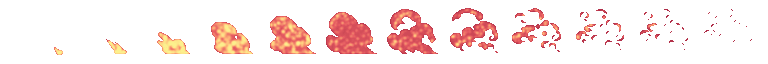
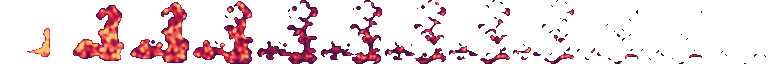
Tweaked the new spells (visuals, damage).

diff --git a/data/tables/spell_table.py b/data/tables/spell_table.py
@@ -17,8 +17,7 @@ BLOOD_RED = (89, 10, 10)
 FIREBOLT = Damage(1.5, fire=2, flags=[Flags.SPELL])
 FIREBALL = Damage(2, fire=7, flags=[Flags.SPELL])
 FIREBALL_EXPLOSION = Damage(2, fire=15, flags=[Flags.SPELL])
-FIRE_MASTERY = Affliction("fire_mastery", 0.1, 15, flags=[Flags.BOON, Flags.FIRE_DMG], stackable=True)
-CONE_OF_FLAMES = Damage(1.2, fire=5, flags=[Flags.SPELL])
+CONE_OF_FLAMES = Damage(0.8, fire=3, flags=[Flags.SPELL])
 
 KAMIKAZE = Damage(3, fire=30, flags=[Flags.MELEE])
 
@@ -65,9 +64,8 @@ FURY_COST = Affliction("fury3", 0.025, 1, flags=[Flags.MANA_COST, Flags.COOLDOWN
 BLOODPACT = Affliction("bloodpact1", 0.75, -1, [Flags.BLESS, Flags.ALL_DAMAGE])
 BLOODPACT_RES = Affliction("bloodpact2", 20, -1, [Flags.LIFE_REGEN, Flags.FLAT])
 
-LIGHTNING_BOLT = Damage(5, 2, elec=1, flags=[Flags.SPELL])
+LIGHTNING_BOLT = Damage(2.8, elec=11, flags=[Flags.SPELL])
 SHOCK = Damage(5, 2, elec=1, flags=[Flags.SPELL])
-CONDUCTION = Affliction("conduction", 0, 5, flags=[Flags.BLESS, Flags.LIGHTNING_DMG], stackable=False)
 
 def generate_spell_list():
     """Generates the spells and add them to stuff"""
@@ -86,8 +84,10 @@ def generate_spell_list():
     magicmissile_icon = Image("icons/spells/magicmissile.png").scale(64, 64)
     rip_icon = Image("icons/spells/rip.png").scale(64, 64)
     pact_icon = Image("icons/spells/bloodpact.png").scale(64, 64)
-    meteor_icon = Image("icons/spells/FireMage_4.png").scale(64, 64)
-    inferno_icon = Image("icons/spells/FireMage_5.png").scale(64, 64)
+    #meteor_icon = Image("icons/spells/FireMage_4.png").scale(64, 64)
+    inferno_icon = Image("icons/spells/firecone.png").scale(64, 64)
+    elecbolt_icon = Image("icons/spells/lightning_bolt.png").scale(64, 64)
+    shock_icon = Image("icons/spells/shock.png").scale(64, 64)
 
     SYSTEM["images"]["firebolt_proj_img"] =\
         Animation("fireball.png", 32, 19, frame_rate=0.25).scale(38, 64)
@@ -140,8 +140,12 @@ def generate_spell_list():
     SYSTEM["images"]["lightboltanim"] = Animation("anims/lightbolt.png", 64, 64, frame_rate=0.25)\
         .rotate(90).scale(64, 128)
     SYSTEM["images"]["skitterbolt"] = Animation("anims/skitter.png", 64, 64, frame_rate=0.25)
+    SYSTEM["images"]["firecone"] = Animation("anims/firecone.png", 64, 64, frame_rate=0.2)\
+        .scale(96, 96)
 
     light_strike = Animation("anims/lightningfall.png", 64, 64, frame_rate=0.25,\
+        plays_once=True, loops=False).scale(128, 128)
+    bolt_strike = Animation("anims/elecboltimpact.png", 64, 64, frame_rate=0.5,\
         plays_once=True, loops=False).scale(128, 128)
     missile_impact = Animation("anims/magicmissile_explosion.png", 64, 72, frame_rate=0.25,\
         plays_once=True, loops=False)
@@ -149,7 +153,7 @@ def generate_spell_list():
     fireball_explosion =\
         Slash(DummyEntity(0,0, None), None, "fireball_expl_img",\
               FIREBALL_EXPLOSION, effective_frames=3)
-    
+
     master_1 = Spell("", m1_icon, "master1_img", MASTER_1, 5, 0,\
         cooldown=0.5, flags=[Flags.MELEE], offset_x=60, effective_frames=8)
     master_2 = Spell("", m2_icon, "master2_img", MASTER_2, 0, 0,\
@@ -218,27 +222,21 @@ def generate_spell_list():
         cooldown=1, flags=[Flags.AURA, Flags.TOGGLEABLE, Flags.LIFE_RESERVATION, Flags.BUFF],
         buffs=[BLOODPACT, BLOODPACT_RES])
 
-    lightning_bolt = Spell("lightning_bolt", arc_icon, "lightboltanim", LIGHTNING_BOLT, 18,\
+    lightning_bolt = Spell("lightning_bolt", elecbolt_icon, "lightboltanim", LIGHTNING_BOLT, 15,\
         cooldown=3, projectiles=1, flags=[Flags.LIGHTNING, Flags.BARRAGE,\
         Flags.PROJECTILE, Flags.PIERCING], \
-        anim_on_hit=light_strike, trail=PARTICLE_CONFIGS["arc_line"], proj_speed=60)
+        anim_on_hit=bolt_strike, proj_speed=60, trail=PARTICLE_CONFIGS["arc_trail"])
 
-    shock = Spell("shock", arc_icon, "skitterbolt", SHOCK, 3,\
+    shock = Spell("shock", shock_icon, "skitterbolt", SHOCK, 3,\
         cooldown=0.35, projectiles=5, spread=180, flags=[Flags.LIGHTNING, Flags.SPREAD,\
         Flags.PROJECTILE, Flags.SKITTER, Flags.AIMED_AT_MOUSE], \
-        anim_on_hit=light_strike, trail=PARTICLE_CONFIGS["arc_line"], delay=0.05, proj_speed=10)
-    
-    chain_lightning = Spell("chain_lightning", arc_icon, "lightboltanim", LIGHTNING_BOLT, 18,\
-        cooldown=3, projectiles=1, chains=5, flags=[Flags.LIGHTNING, Flags.BARRAGE,\
-        Flags.PROJECTILE, Flags.REPLICATE], \
-        anim_on_hit=light_strike, trail=PARTICLE_CONFIGS["arc_line"], proj_speed=60)
-    
-    cone_of_flames = Spell("cone_of_flames", inferno_icon, "firebolt_proj_img", CONE_OF_FLAMES, 10,\
-        cooldown=5, projectiles=10, flags=[Flags.FIRE, Flags.EXPIRE, Flags.SPELL, Flags.PROJECTILE,
-                                           Flags.SPREAD, Flags.PIERCING],
-         delay=0.5, proj_speed=10, spread=90)
+        trail=PARTICLE_CONFIGS["arc_line"], delay=0.3, proj_speed=10)
 
-    
+    cone_of_flames = Spell("cone_of_flames", inferno_icon, "firecone", CONE_OF_FLAMES, 10,\
+        cooldown=5, projectiles=10, flags=[Flags.FIRE, Flags.EXPIRE, Flags.SPELL, Flags.PROJECTILE,
+                                           Flags.SPREAD, Flags.PIERCING, Flags.DAMAGE_DECAYS],
+         delay=0.9, proj_speed=5, spread=90, trail=PARTICLE_CONFIGS["firecone_trail"],
+         impact=PARTICLE_CONFIGS["firecone_impact"])
 
     SYSTEM["spells"]["firebolt"] = firebolt
     SYSTEM["spells"]["icebolt"] = icebolt
@@ -255,9 +253,7 @@ def generate_spell_list():
     SYSTEM["spells"]["bloodpact"] = bloodpact
     SYSTEM["spells"]["lightning_bolt"] = lightning_bolt
     SYSTEM["spells"]["shock"] = shock
-    SYSTEM["spells"]["chain_lightning"] = chain_lightning
     SYSTEM["spells"]["cone_of_flames"] = cone_of_flames
-
     #Enemy spells
     SYSTEM["spells"]["e_charge"] = charge
     SYSTEM["spells"]["e_voidbolt"] = voidbolt_enemy

diff --git a/data/game/projectile.py b/data/game/projectile.py
@@ -30,7 +30,7 @@ class Projectile(HitBox):
                 '_initial_delay', '_explosion', '_behaviours', '_debuffs', '_flagged', \
                 '_wandering', '_immune', '_bounced', '_chains', '_warning', '_anim_speed', \
                 '_debuff_chance', '_animation_controller', '_particle_trail', '_particle_impact', \
-                '_particle_timer', '_particle_interval', '_initial_angle'
+                '_particle_timer', '_particle_interval', '_initial_angle', '_decay'
     def __init__(self, x, y, angle, imagefile: str, damage: Damage, origin:Creature,\
                 evil = False, speed = 20, caster = None,\
                 bounces = 0, delay = 0, chains = 0,\
@@ -113,6 +113,7 @@ class Projectile(HitBox):
         self._warning = None
         self._anim_speed = anim_speed
         self._debuff_chance = debuff_chance
+        self._decay = 1
 
     def get_image(self):
         """Returns the projectile image."""
@@ -155,7 +156,11 @@ class Projectile(HitBox):
                 )
             if Flags.CHAINS in self.behaviours:
                 self._immune.clear()
-            dmg = self._origin.recalculate_damage(self._damage)
+            if Flags.DAMAGE_DECAYS in self._behaviours or Flags.DAMAGE_GROWS in self._behaviours:
+                dmg = self._origin.recalculate_damage(self._damage,
+                                                      additional_multiplier=self._decay)
+            else:
+                dmg = self._origin.recalculate_damage(self._damage)
             num, crit = target.damage(dmg)
             self._immune.append(target)
             if Flags.REPLICATE in self._behaviours:
@@ -342,6 +347,10 @@ class Projectile(HitBox):
             self._flagged = True
         if self._delay <= 0 and Flags.EXPIRE in self._behaviours:
             self._flagged = True
+        if Flags.DAMAGE_DECAYS in self._behaviours:
+            self._decay *= 0.98
+        elif Flags.DAMAGE_GROWS in self._behaviours:
+            self._decay *= 1.002
         self._delay -= 0.016
 
     def flag(self):

diff --git a/data/tables/particle_table.py b/data/tables/particle_table.py
@@ -11,6 +11,16 @@ PARTICLE_CONFIGS = {
         'fade': True,
         'gravity': 0
     },
+    'firecone_trail': {
+        'count': 4,
+        'vel_range': (-2, 2),
+        'color': [(255, 100, 0), (255, 150, 0), (255, 200, 50)],
+        'size_range': (1, 4),
+        'life_range': (0.2, 0.8),
+        'spread_angle': 360,
+        'fade': True,
+        'gravity': 0
+    },
     'voidbolt_trail': {
         'count': 12,
         'vel_range': (-1.5, 1.5),
@@ -31,11 +41,31 @@ PARTICLE_CONFIGS = {
         'fade': True,
         'gravity': 0.3
     },
+    'firecone_impact': {
+        'count': 20,
+        'vel_range': (3, 10),
+        'color': [(255, 100, 0), (255, 150, 0), (255, 200, 50)],
+        'size_range': (2, 7),
+        'life_range': (0.3, 0.8),
+        'spread_angle': 360,
+        'fade': True,
+        'gravity': 0.3
+    },
     'arc_line': {
         'count': 30,
         'color': [(100, 200, 255), (150, 220, 255), (200, 230, 255)],
         'size_range': (2, 5),
         'life_range': (0.1, 0.2),
         'fade': True
-    }
+    },
+    'arc_trail': {
+        'count': 15,
+        'vel_range': (-2, 2),
+        'color': [(100, 200, 255), (150, 220, 255), (200, 230, 255)],
+        'size_range': (3, 5),
+        'life_range': (0.2, 0.8),
+        'spread_angle': 45,
+        'fade': True,
+        'gravity': 0
+    },
 }

diff --git a/data/game/creature.py b/data/game/creature.py
@@ -167,7 +167,8 @@ class Creature:
         self._all_flags = []
         self._changed_flags = True
 
-    def recalculate_damage(self, damage_source: Damage, is_dot = False) -> Damage:
+    def recalculate_damage(self, damage_source: Damage, is_dot = False,
+                           additional_multiplier: float = 1) -> Damage:
         """Takes a raw damage source (ie from a spell) and applies the creature's
         own multipliers to it."""
         crit_roll = random.uniform(0, 1)
@@ -191,12 +192,12 @@ class Creature:
         values = {}
         for types in DAMAGE_TYPE:
             type_mult = self._stats[f"{types}_dmg"].c_value
-            roll_base = dmg[types] * type_mult
+            roll_base = dmg[types] * type_mult 
             if is_dot:
                 roll_added = 0
             else:
                 roll_added = self._stats[f"{types}_flat"].roll() * type_mult * coeff
-            full_roll = (roll_base + roll_added) * mod
+            full_roll = (roll_base + roll_added) * mod * additional_multiplier
             values[types] = full_roll
 
         pp = pen["phys"] + self._stats["phys_pen"].get_value()

diff --git a/data/constants.py b/data/constants.py
@@ -320,6 +320,8 @@ class Flags(str, Enum):
     SKITTER = "skitter"
     IMPACT_ANIMATION_RANDOM = "impact_anim_random"
     REPLICATE = "replicate_on_hit"
+    DAMAGE_DECAYS = "damage_decays"
+    DAMAGE_GROWS = "damage_grows"
     #Flags for slashes
     CUTS_PROJECTILE = "cuts_proj"
     COMBO_SPELL = "combo_spell"
